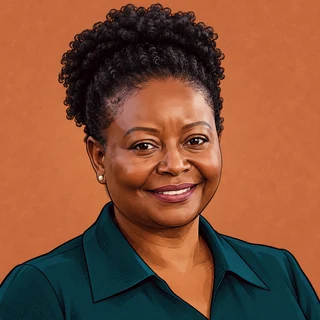
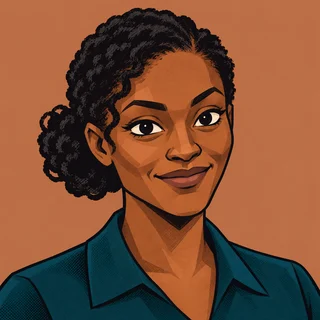
Redesign character faces as stylised fictional illustrations

diff --git a/app/character-portrait.tsx b/app/character-portrait.tsx
@@ -1,5 +1,7 @@
 import type { Character } from "./journey-data";
 
+const PORTRAIT_REVISION = "graphic-novel-v2";
+
 export function CharacterPortrait({
   character,
   eager = false,
@@ -10,9 +12,9 @@ export function CharacterPortrait({
   return (
     <div className={"avatar avatar-" + character.tone} aria-hidden="true">
       <picture>
-        <source srcSet={"images/characters/" + character.id + ".webp"} type="image/webp" />
+        <source srcSet={"images/characters/" + character.id + ".webp?v=" + PORTRAIT_REVISION} type="image/webp" />
         <img
-          src={"images/characters/" + character.id + ".jpg"}
+          src={"images/characters/" + character.id + ".jpg?v=" + PORTRAIT_REVISION}
           alt=""
           width={320}
           height={320}

diff --git a/public/images/characters/README.md b/public/images/characters/README.md
@@ -1,17 +1,23 @@
 # Character portraits
 
-Twelve graphic novel illustrations replace the initials on character cards and in the selected character panel during play. `app/character-portrait.tsx` selects each image by the character’s stable ID, including when the interface language changes.
+Twelve strongly stylised graphic novel illustrations appear on character cards and in the selected character panel during play. `app/character-portrait.tsx` selects each image by the character’s stable ID, including when the interface language changes.
+
+## Current facial redesign
+
+The second artwork pass replaces the earlier realistic interpretations with distinct fictional faces. Bold brush-ink contours, large simplified shapes, flat cel shading and restrained halftone replace photographic skin and lighting. Eye geometry and spacing, brows, noses, mouths, cheekbones, jaws and chins were deliberately redesigned; hairstyles, facial hair and eyewear were also changed where appropriate to reduce resemblance to the initial photographic references. Natural skin colours and the established character palettes guide the set.
+
+The latest redraw uses the previous illustrations as palette references and the newly drawn Kwame portrait as a shared style reference. It does not aim to preserve the identities in the photographs. These illustrations are fictional character designs, not depictions of the source subjects’ lives or identities.
 
 ## Visual references
 
-The user supplied [The Irish Times – New to the Parish on Facebook](https://www.facebook.com/NewToTheParish/). The corresponding [New to the Parish collection](https://www.irishtimes.com/tags/new-to-the-parish/) provided the portrait references. Kwame’s visual reference came from the third portrait in [Broadside: Ireland’s famed welcome faces a stern test](https://www.irishtimes.com/life-and-style/people/broadside-ireland-s-famed-welcome-faces-a-stern-test-1.2696849).
+For the initial artwork pass, the user supplied [The Irish Times – New to the Parish on Facebook](https://www.facebook.com/NewToTheParish/). The corresponding [New to the Parish collection](https://www.irishtimes.com/tags/new-to-the-parish/) provided the portrait references. Kwame’s initial visual reference came from the third portrait in [Broadside: Ireland’s famed welcome faces a stern test](https://www.irishtimes.com/life-and-style/people/broadside-ireland-s-famed-welcome-faces-a-stern-test-1.2696849).
 
 These are AI-generated graphic novel interpretations for fictional game characters. The source articles concern different people: the characters’ names, nationalities, circumstances and decision pathways are fictional, and are not biographies of the people in the reference photographs. No affiliation or endorsement is implied. Reference photographs remain the work of their respective photographers and publisher and are not included in this repository.
 
 ## Production
 
-Created with the built-in Create Image tool. The complete prompts and reference-image URLs are recorded in `generation.json`. The generated artwork was exported proportionally at 320 × 320 pixels in WebP with JPEG fallbacks. No original photographs are served by the game.
+Created with the built-in Create Image tool, one generation per character. The complete redesign prompts and previous-artwork references are recorded in `generation.json`; the initial generation manifest remains in the linked Git history. The generated artwork was exported proportionally at 320 × 320 pixels in WebP with JPEG fallbacks. No original photographs are served by the game.
 
 Each file uses a stable character ID: `kwame`, `mateo`, `farid`, `priya`, `mariam`, `sofia`, `valentina`, `noor`, `river`, `adama`, `elena`, `leila`.
 
-Portraits reserve square space, retain the site’s character colours, and load lazily in the card list. The selected portrait loads eagerly. Images have empty alternative text because the adjacent visible character name supplies the accessible label.
+Portraits reserve square space, retain the site’s character colours, and load lazily in the card list. The selected portrait loads eagerly. Both WebP and JPEG URLs include the artwork revision so browsers request the redesigned images after deployment. Images have empty alternative text because the adjacent visible character name supplies the accessible label.

diff --git a/README.md b/README.md
@@ -11,7 +11,7 @@ An interactive educational website that explores migration and settlement in Ire
 ## What you can explore
 
 - Character journeys covering work, study, family, EU free movement and international protection.
-- Twelve graphic novel portraits, carried from character selection through each journey.
+- Twelve strongly stylised graphic novel portraits with redesigned fictional faces, carried from character selection through each journey.
 - Immediate explanations and links to official information.
 - A route finder and an Information Hub.
 - Multilingual text, keyboard controls and responsive layouts.
@@ -84,7 +84,7 @@ Created by Sam O'Brien-Olinger. Educational source links used by the project inc
 
 The project uses React, Next.js/Vinext, Vite, Tailwind CSS, shadcn UI primitives and Lucide icons. Third-party software retains its own terms; the repository's ownership statement below applies as written.
 
-The character portraits were generated with Create Image using visual references from The Irish Times’ **New to the Parish** series. The game’s characters and narratives are fictional. See [portrait references and production notes](public/images/characters/README.md).
+The character portraits were generated with Create Image. The initial artwork used visual references from The Irish Times’ **New to the Parish** series; the current illustrations substantially redesign the faces, hair and distinguishing details, with bold ink lines and flat graphic novel shading to reduce resemblance to those references. The game’s characters and narratives are fictional. See [portrait references and production notes](public/images/characters/README.md).
 
 Design decisions, original feature notes, historical testing evidence and detailed acknowledgements remain available in the preserved project record:
 
